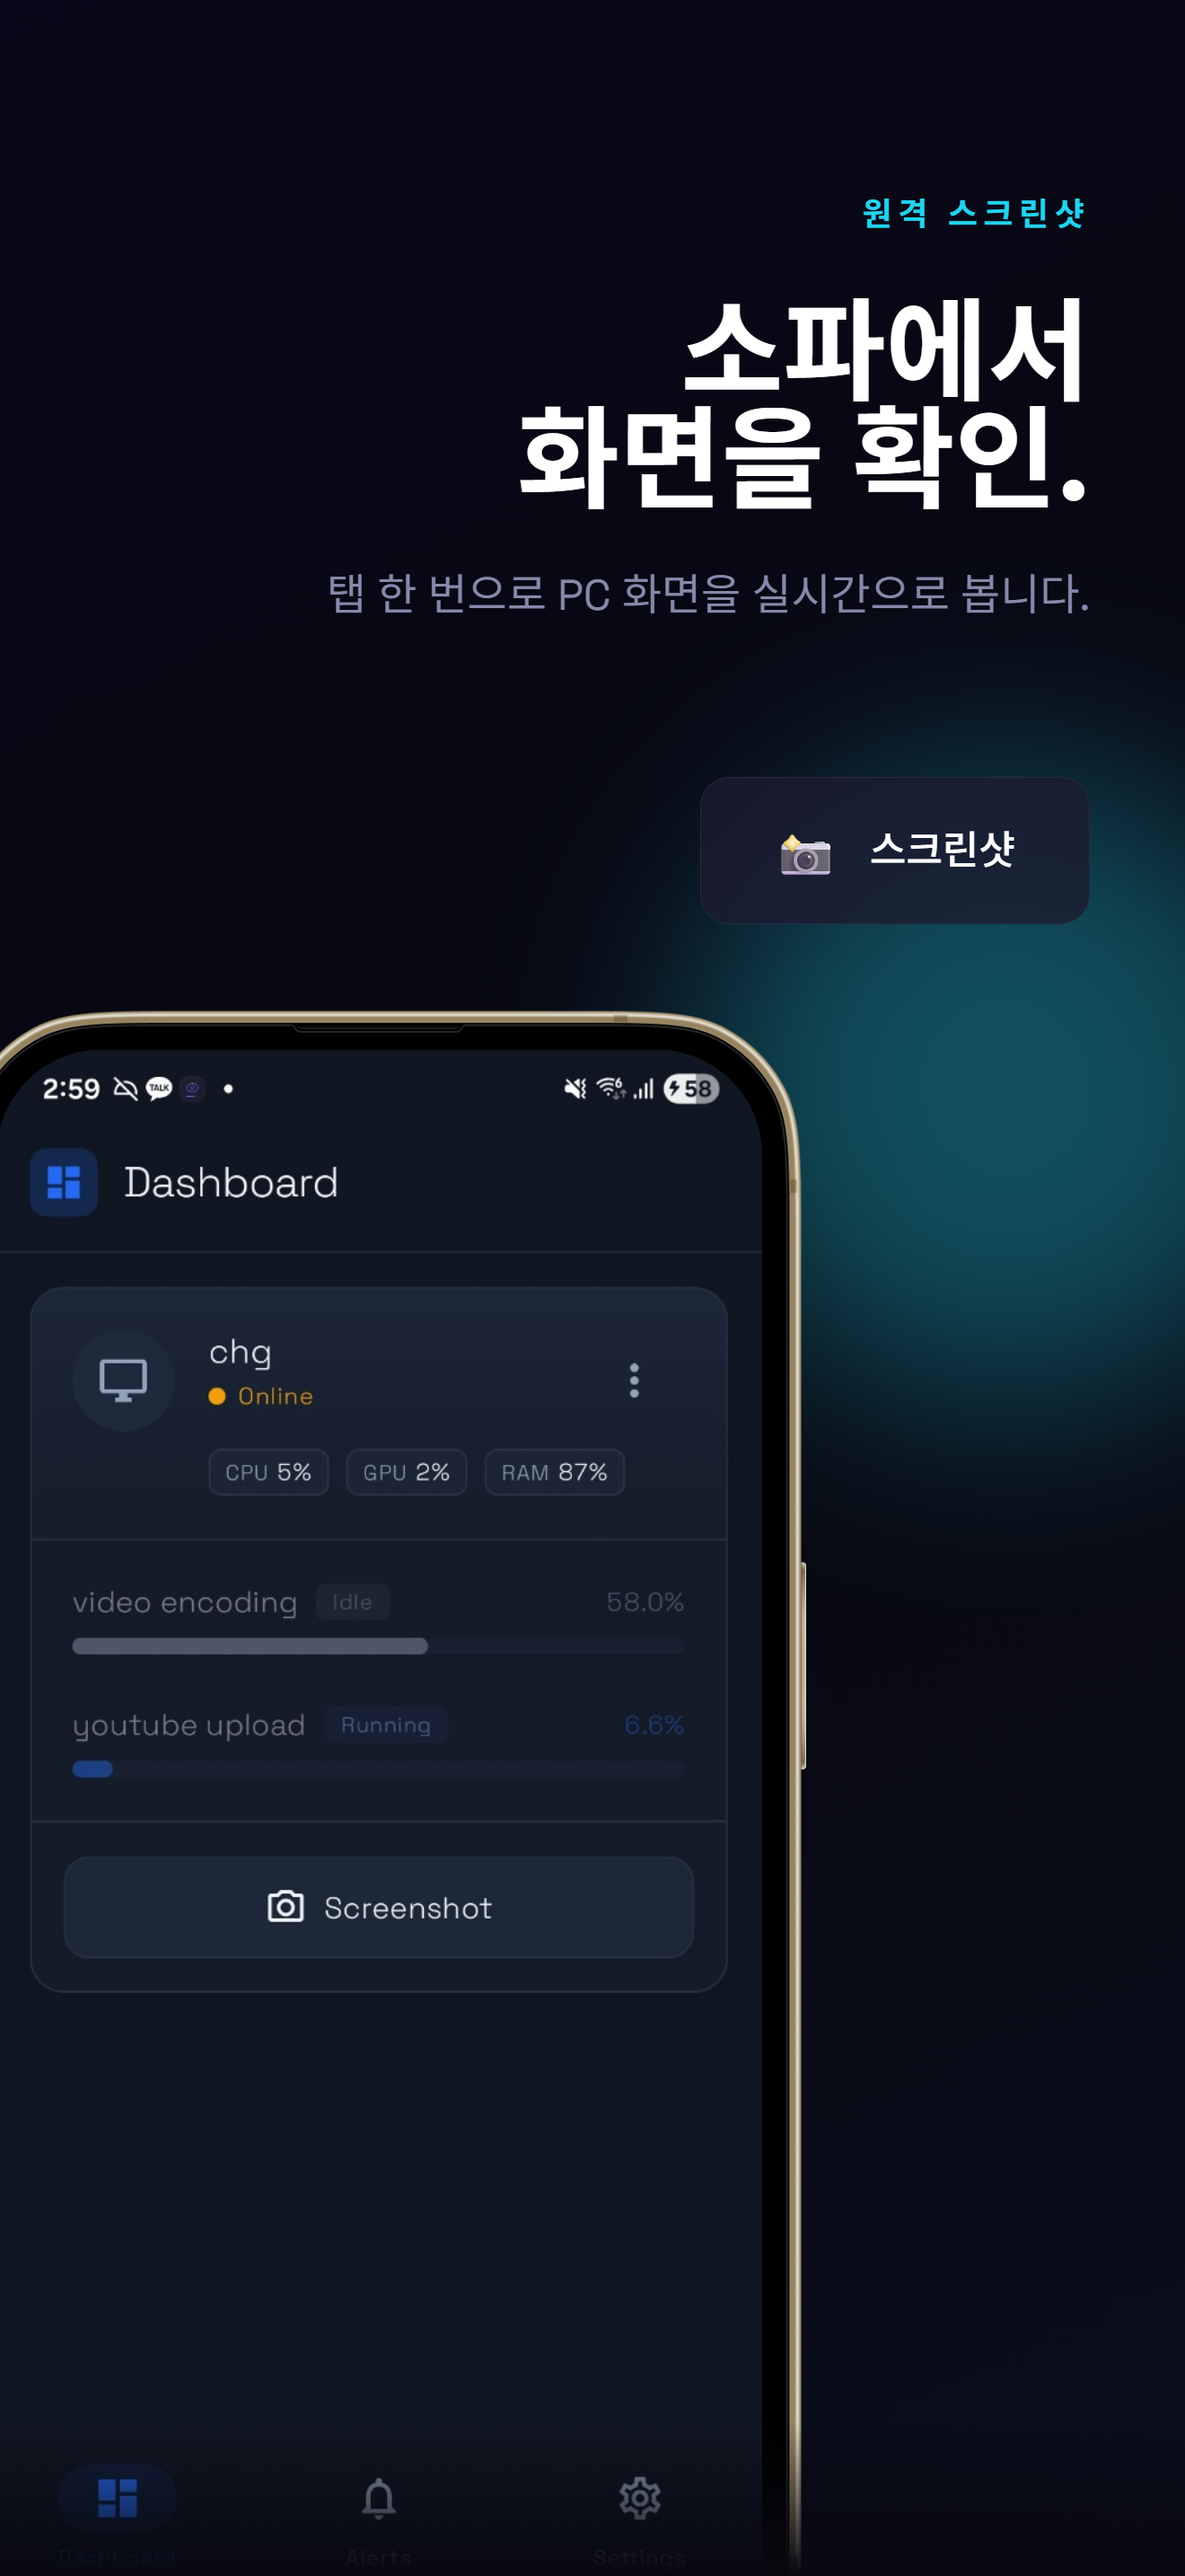
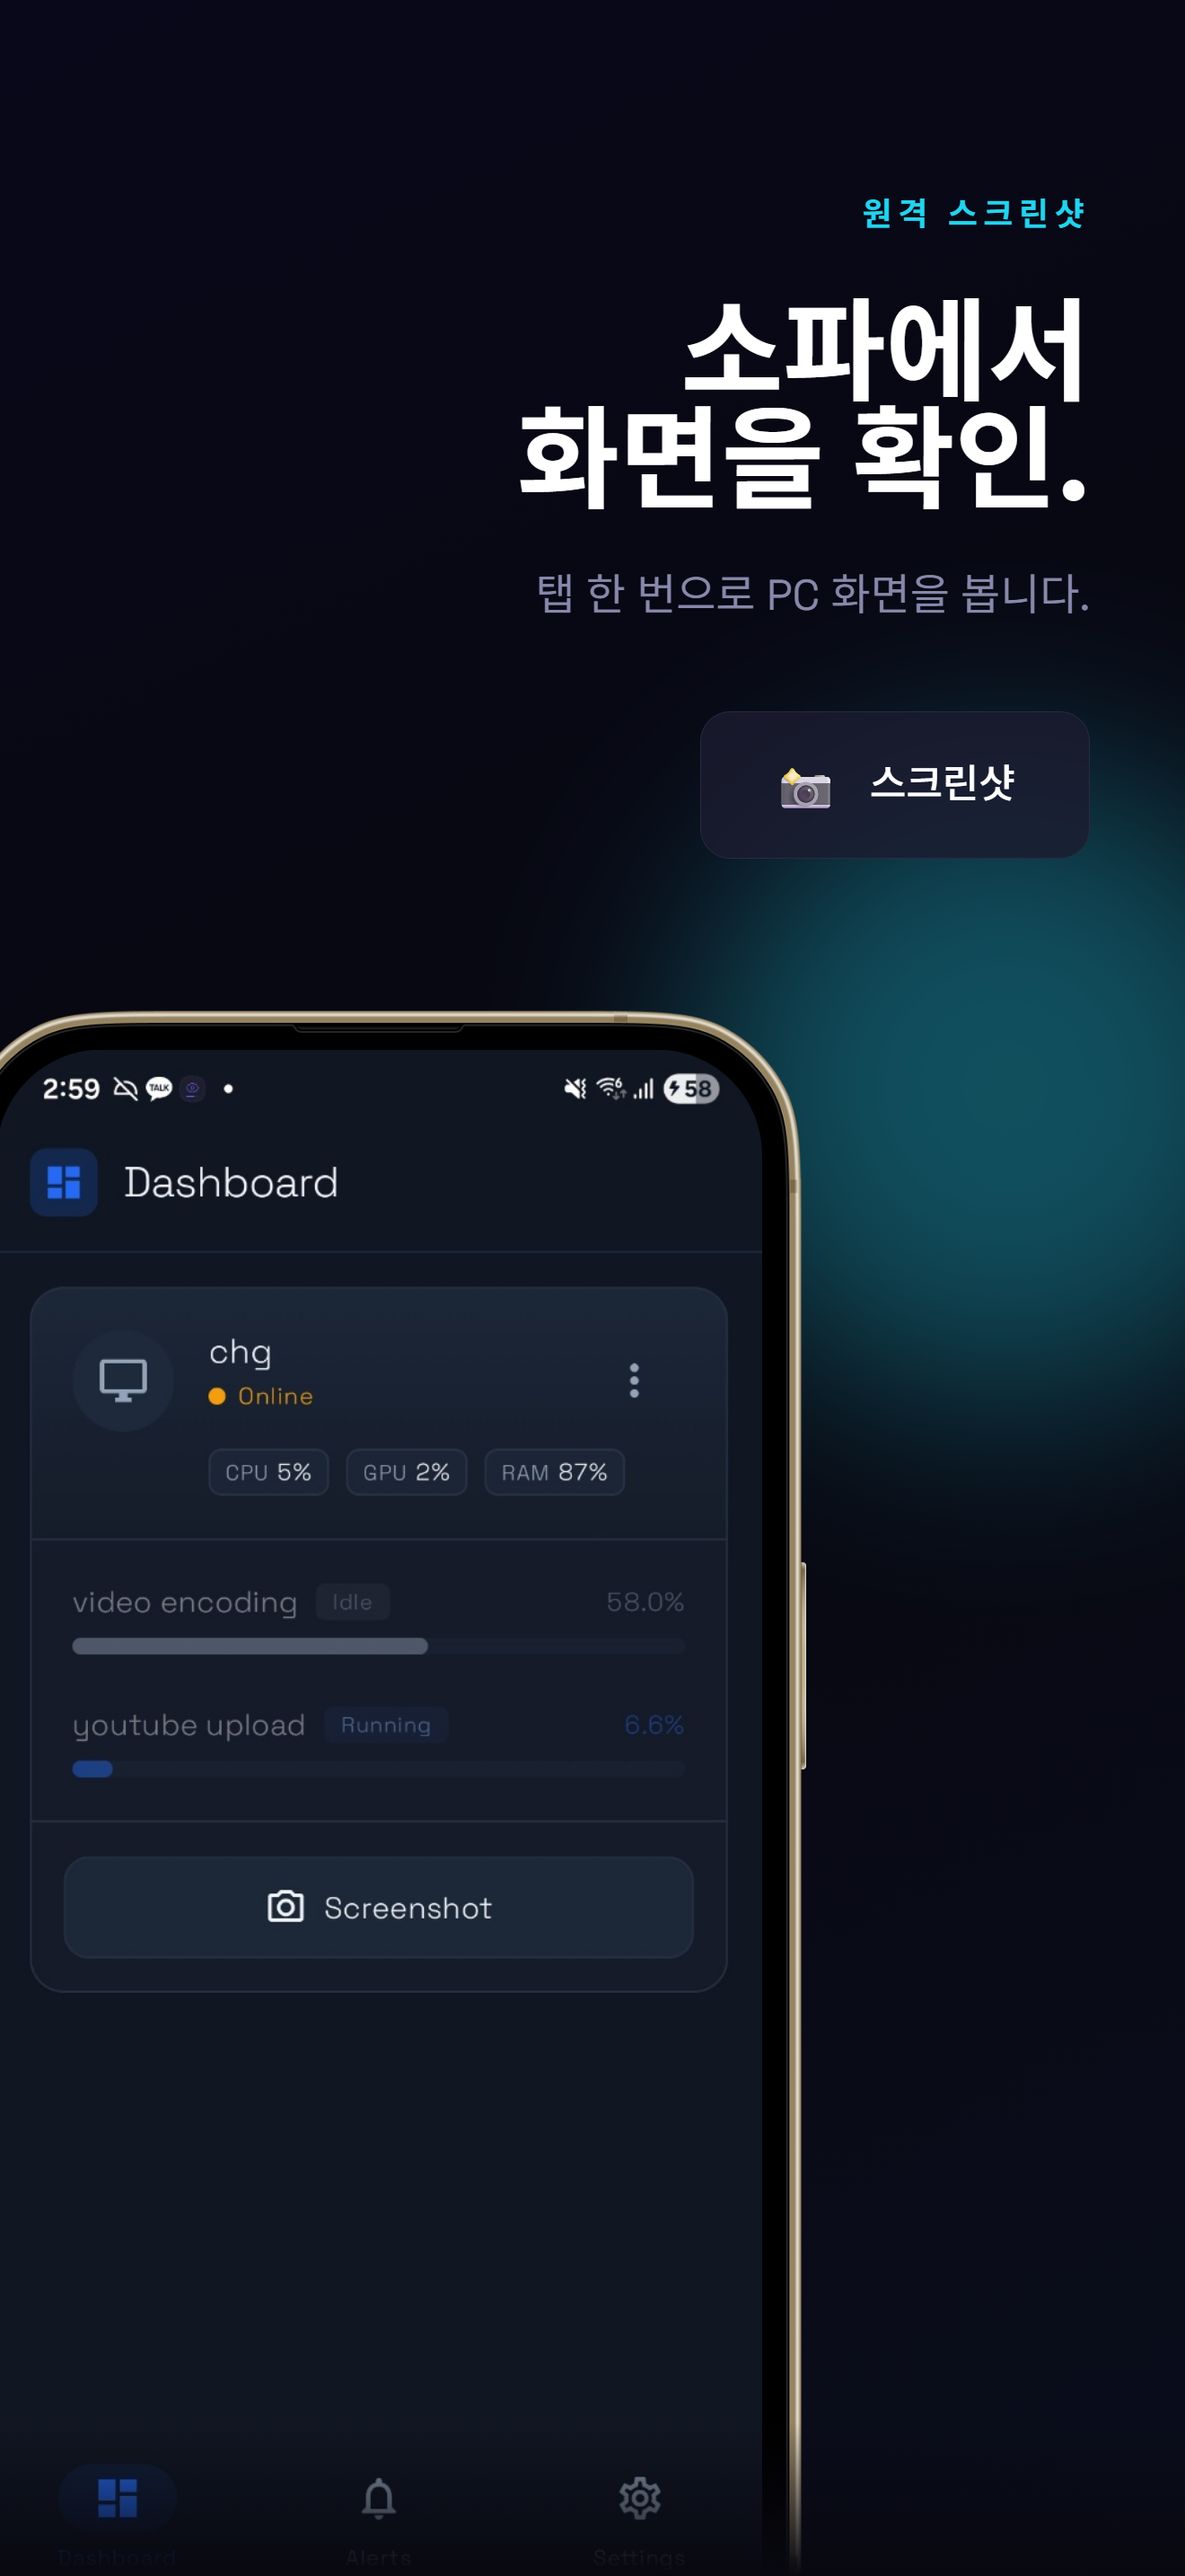
fix(pc-agent): simplify bar mode auto label — remove gradient/transition detail

Changed region(s): [[0.7144, 0.2793, 0.9318, 0.3724], [0.2795, 0.2172, 0.8076, 0.2483], [0.6523, 0.2793, 0.7144, 0.3414]]

diff --git a/pc-agent/utils/i18n.py b/pc-agent/utils/i18n.py
@@ -143,7 +143,7 @@ TRANSLATIONS: dict[str, dict[str, str]] = {
         "btn_confirm": "확인",
         "bar_preview_title": "바 탐지 결과",
         "bar_analysis_mode": "분석 방식",
-        "bar_mode_auto": "자동 (그라데이션/전환점)",
+        "bar_mode_auto": "자동",
         "bar_mode_color": "색상 지정",
         "bar_color_pick_hint": "총 진행도를 나타내는 색상을 선택하세요",
         "bar_color_none_detected": "색상 감지 중...",
@@ -325,7 +325,7 @@ TRANSLATIONS: dict[str, dict[str, str]] = {
         "btn_confirm": "Confirm",
         "bar_preview_title": "Bar Detection Result",
         "bar_analysis_mode": "Analysis Mode",
-        "bar_mode_auto": "Auto (gradient/transition)",
+        "bar_mode_auto": "Auto",
         "bar_mode_color": "Color-based",
         "bar_color_pick_hint": "Select the color that represents total progress",
         "bar_color_none_detected": "Detecting colors...",

diff --git a/docs/mobile-app/topics/build-deploy.md b/docs/mobile-app/topics/build-deploy.md
@@ -24,11 +24,3 @@ Android 빌드, Play 배포 경로를 빠르게 찾는다.
 - 프로젝트 개요: `docs/overview.md`
 - 기술설계: `docs/mobile-app/technical-spec.md` (빌드/배포)
 
-## 릴리즈 Google 로그인 트러블슈팅
-- 증상: 계정 선택 후 로그인 콜백이 오지 않거나 바로 취소되는 것처럼 보임
-- 1차 점검: `mobile-app`에서 `./gradlew.bat :app:signingReport` 실행 후 `release` SHA-1/SHA-256 확인
-- Firebase 콘솔 점검:
-  - Android 앱(`com.chg.progeresseye`)에 릴리즈 인증서 SHA-1/SHA-256 등록
-  - Play 배포 앱은 Play App Signing SHA-1/SHA-256도 함께 등록
-- 적용: Firebase에서 `google-services.json` 재다운로드 후 `mobile-app/app/google-services.json` 교체
-- 참고: 난독화(R8) 자체보다 릴리즈 서명 지문 불일치로 동일 증상이 자주 발생함
